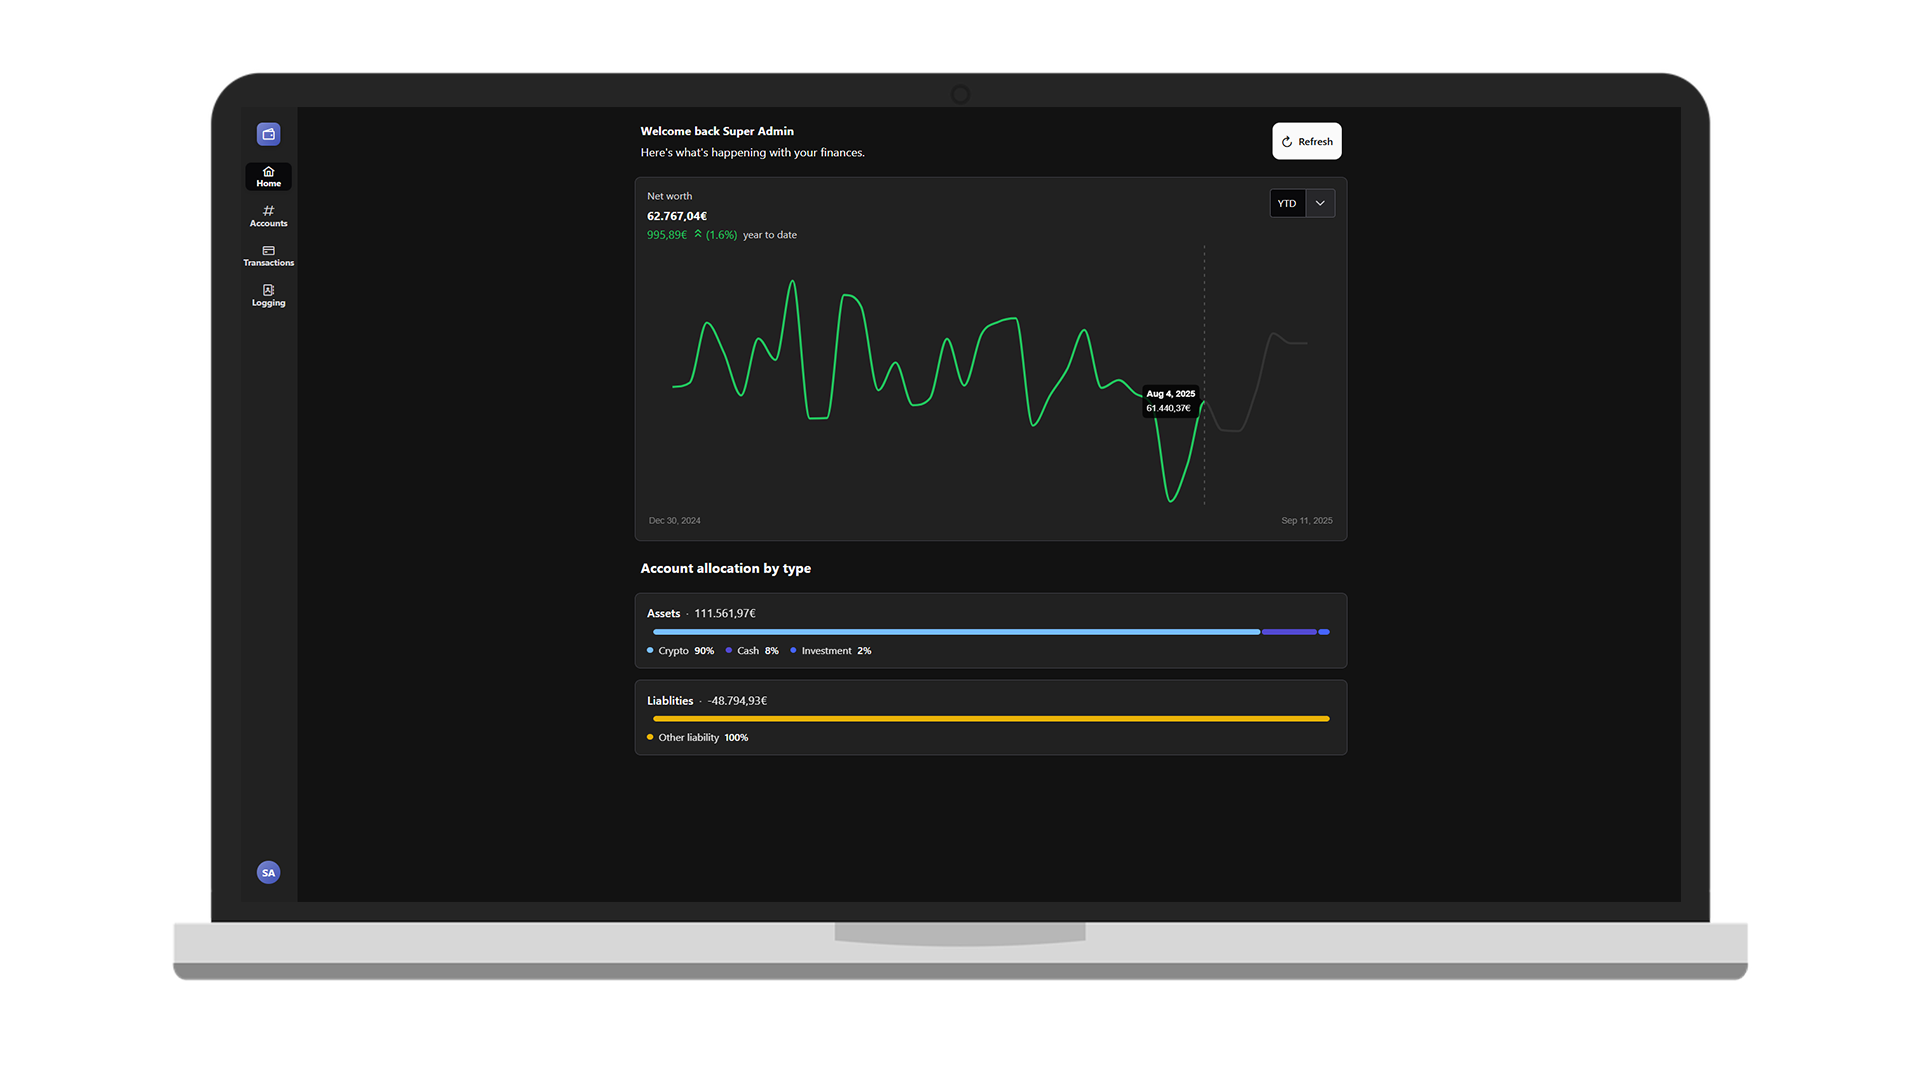
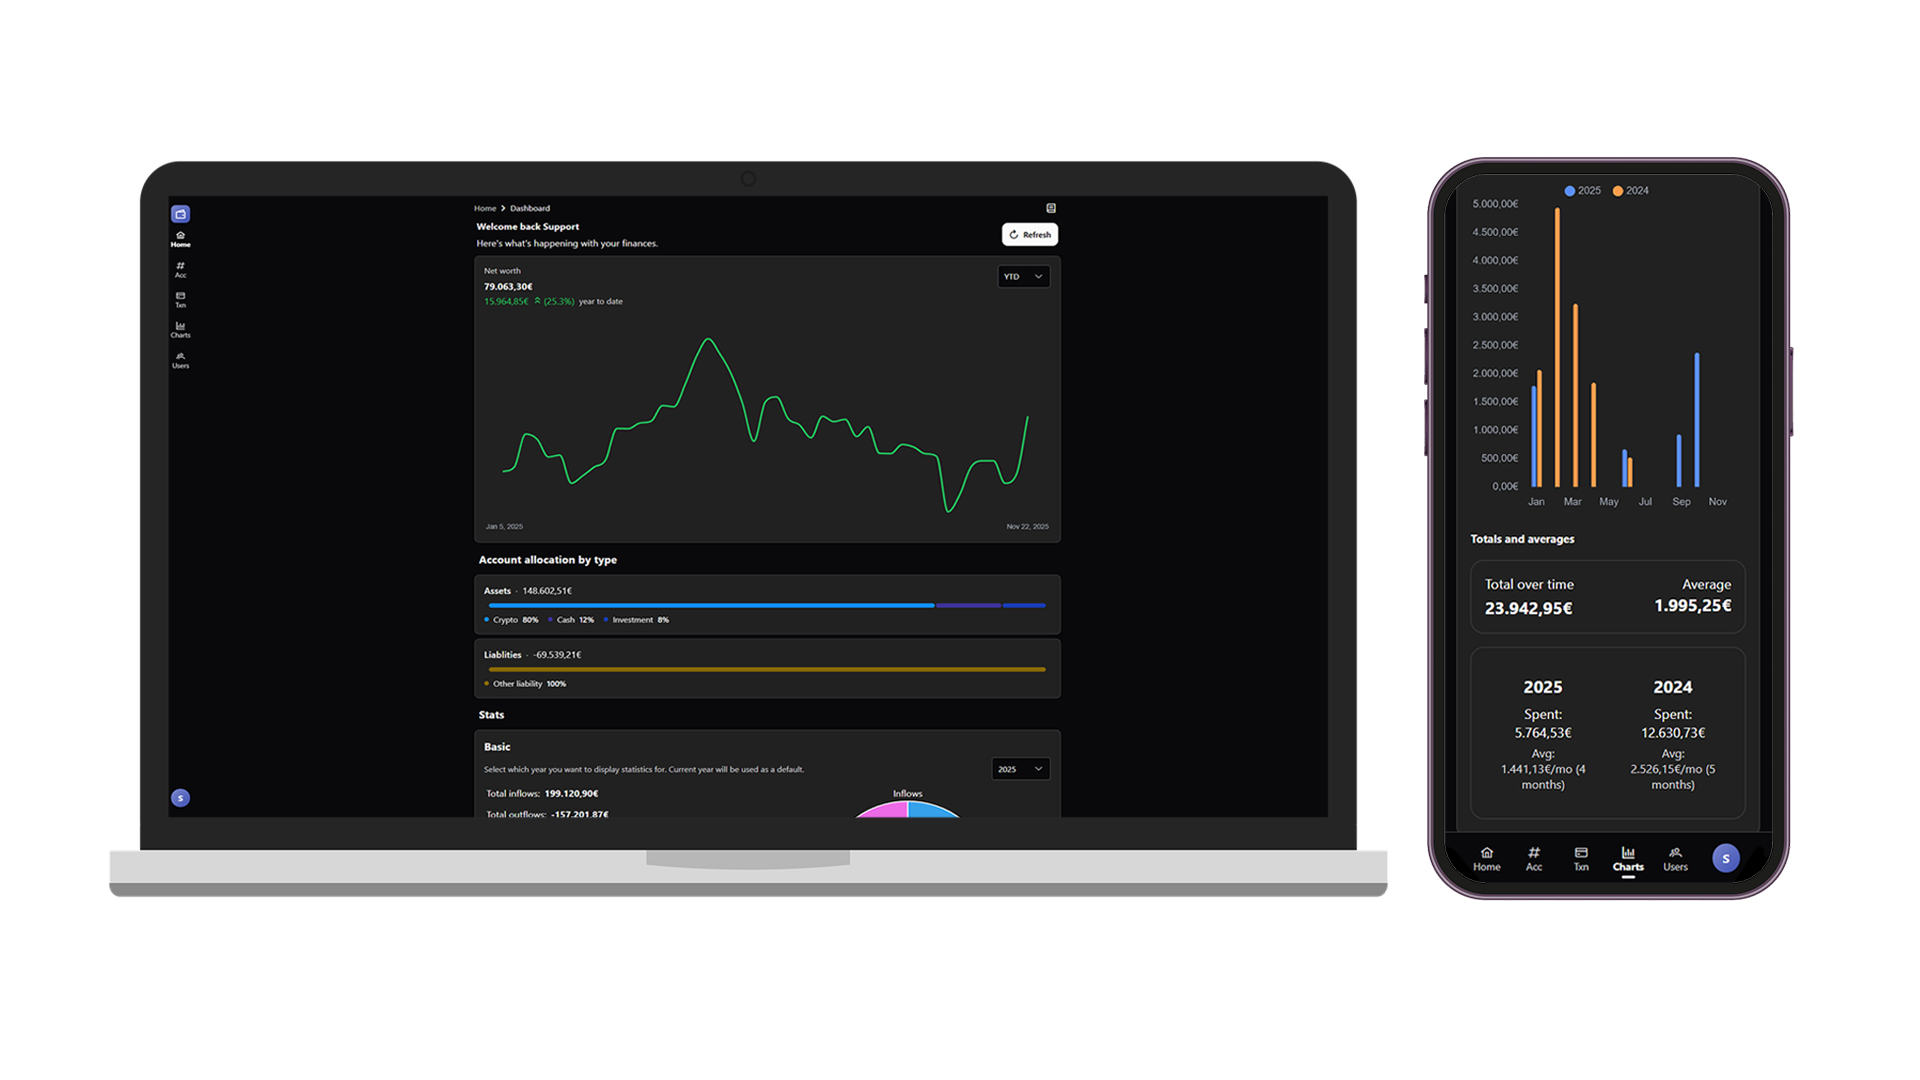
chore: update project images

diff --git a/src/components/Projects.vue b/src/components/Projects.vue
@@ -25,7 +25,7 @@
           <div id="projectCarousel" class="carousel slide" data-bs-ride="carousel">
             <div class="carousel-inner" @click="$router.push({name: 'project-view'})">
               <div class="carousel-item active">
-                <img src="../assets/images/sph_v3.png" class="d-block w-100" alt="SPH">
+                <img src="../assets/images/sph.png" class="d-block w-100" alt="SPH">
                 <div class="carousel-caption d-none d-md-block">
                   <h5 class="carousel-text">SPH</h5>
                   <p class="carousel-text">Measurement platform.</p>
@@ -35,25 +35,18 @@
                 <img src="../assets/images/wealthwarden.png" class="d-block w-100" alt="WealthWarden">
                 <div class="carousel-caption d-none d-md-block">
                   <h5 class="carousel-text">WealthWarden</h5>
-                  <p class="carousel-text">Personal finance app.</p>
+                  <p class="carousel-text">Personal finance tracker.</p>
                 </div>
               </div>
               <div class="carousel-item">
-                <img src="../assets/images/ng-ml_v2.png" class="d-block w-100" alt="NoiseGuard ML">
+                <img src="../assets/images/ng-ml.png" class="d-block w-100" alt="NoiseGuard ML">
                 <div class="carousel-caption d-none d-md-block">
                   <h5 class="carousel-text">NoiseGuard ML</h5>
                   <p class="carousel-text">Audio classification server.</p>
                 </div>
               </div>
               <div class="carousel-item">
-                <img src="../assets/images/ims-cal_v2.png" class="d-block w-100" alt="Calibration management">
-                <div class="carousel-caption d-none d-md-block">
-                  <h5 class="carousel-text">Calibration system</h5>
-                  <p class="carousel-text">Internal management tool.</p>
-                </div>
-              </div>
-              <div class="carousel-item">
-                <img src="../assets/images/ai_bot.png" class="d-block w-100" alt="Calibration management">
+                <img src="../assets/images/neurolytix.png" class="d-block w-100" alt="Calibration management">
                 <div class="carousel-caption d-none d-md-block">
                   <h5 class="carousel-text">AI Assistant</h5>
                   <p class="carousel-text">Company knowledge manager.</p>

diff --git a/src/components/ProjectDisplay.vue b/src/components/ProjectDisplay.vue
@@ -20,11 +20,11 @@
 
 import ProjectCard from "../components/reusable/ProjectCard.vue";
 import AnimatedComponent from "../components/reusable/AnimatedComponent.vue";
-import sphImage from "../assets/images/sph_v3.png";
-import calSisImage from "../assets/images/ims-cal_v2.png";
+import sphImage from "../assets/images/sph.png";
+import calSisImage from "../assets/images/ims-cal-sis.png";
 import wealthwardenImage from "../assets/images/wealthwarden.png";
-import ngMlImage from "../assets/images/ng-ml_v2.png";
-import aiBotImage from "../assets/images/ai_bot.png";
+import ngMlImage from "../assets/images/ng-ml.png";
+import neurolytixImage from "../assets/images/neurolytix.png";
 import ngLicenceImage from "../assets/images/ng-licence.png";
 import dsaImage from "../assets/images/dsa-go.png";
 import walkoImage from "../assets/images/walko.png";
